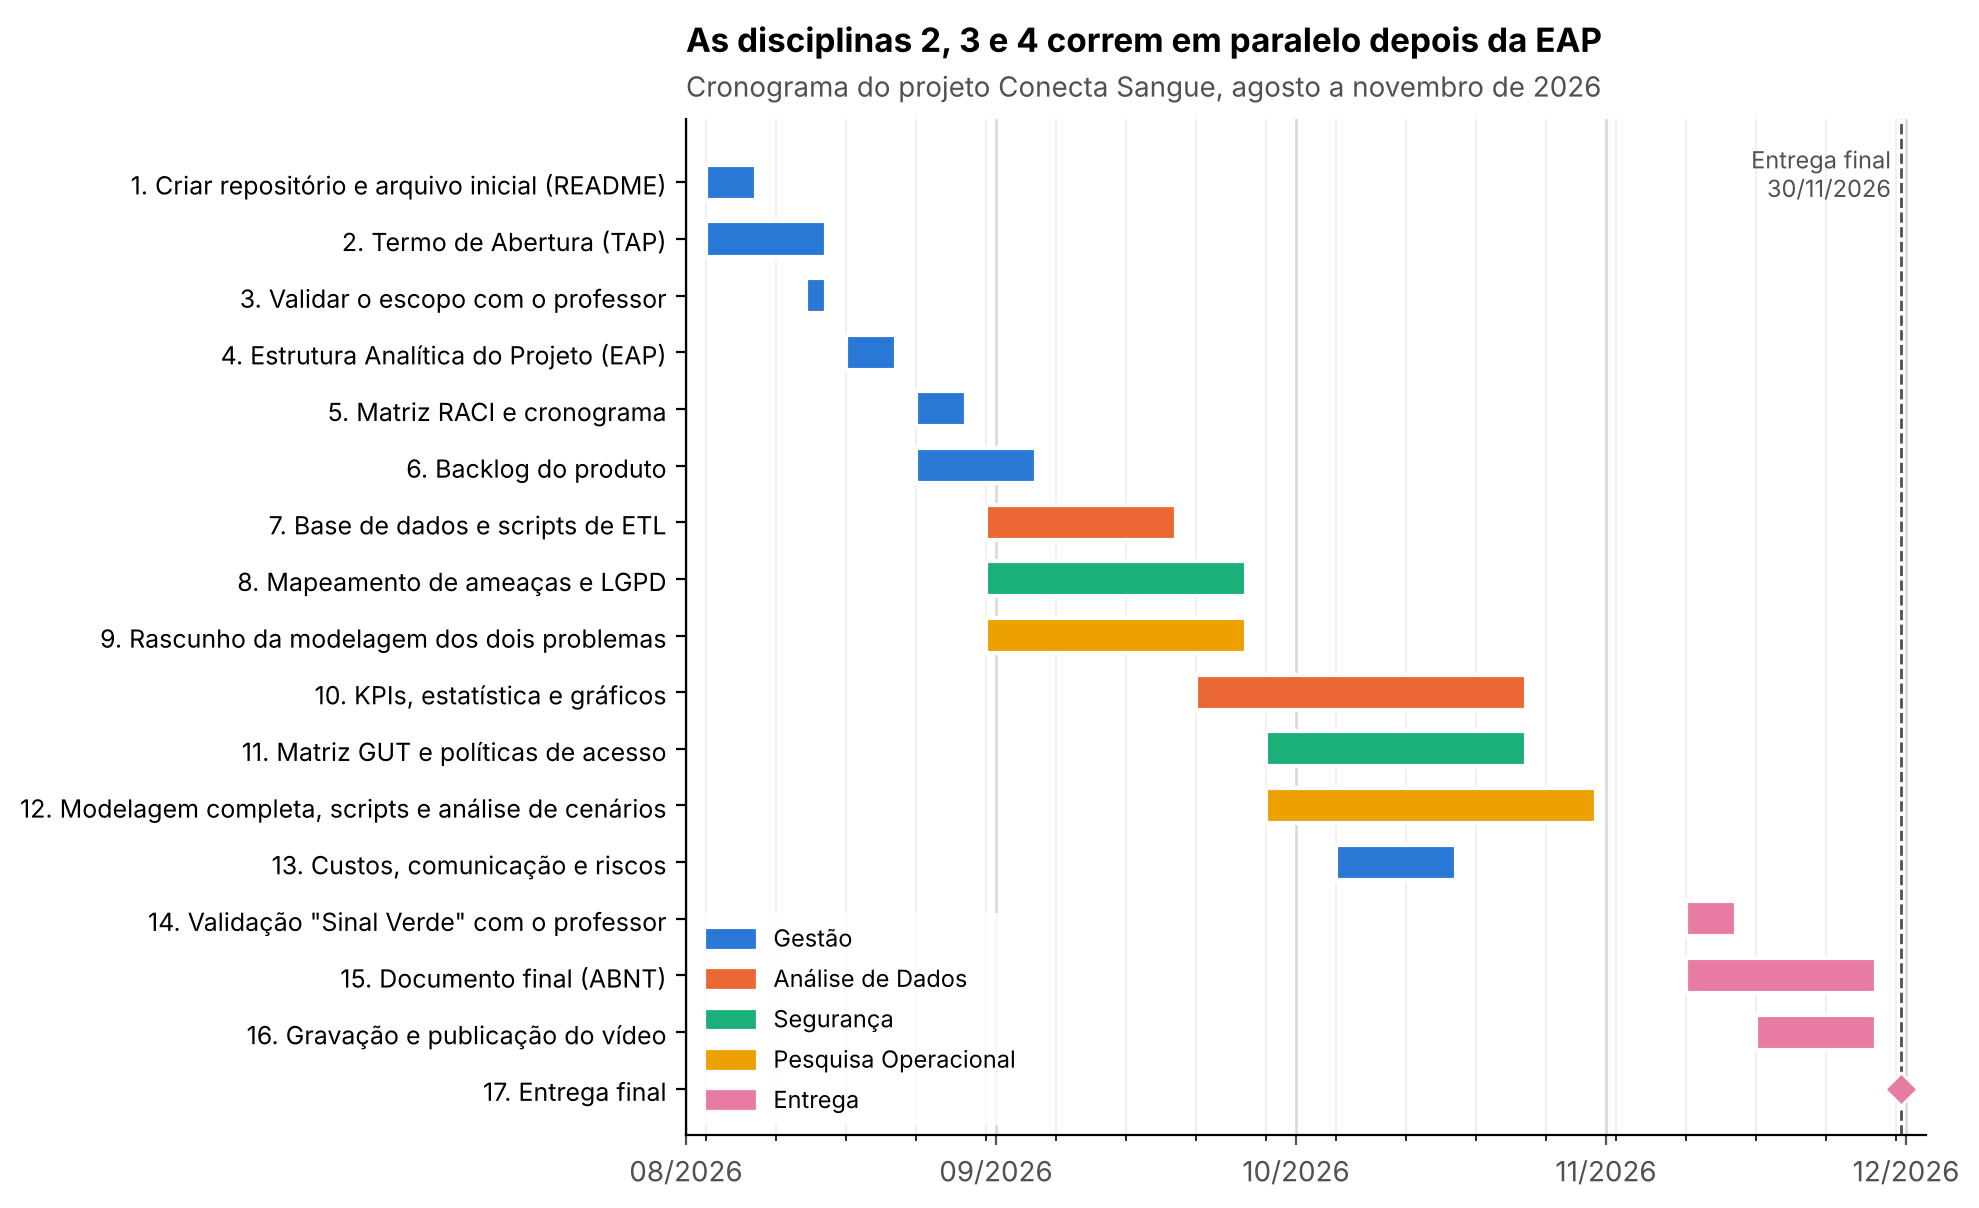
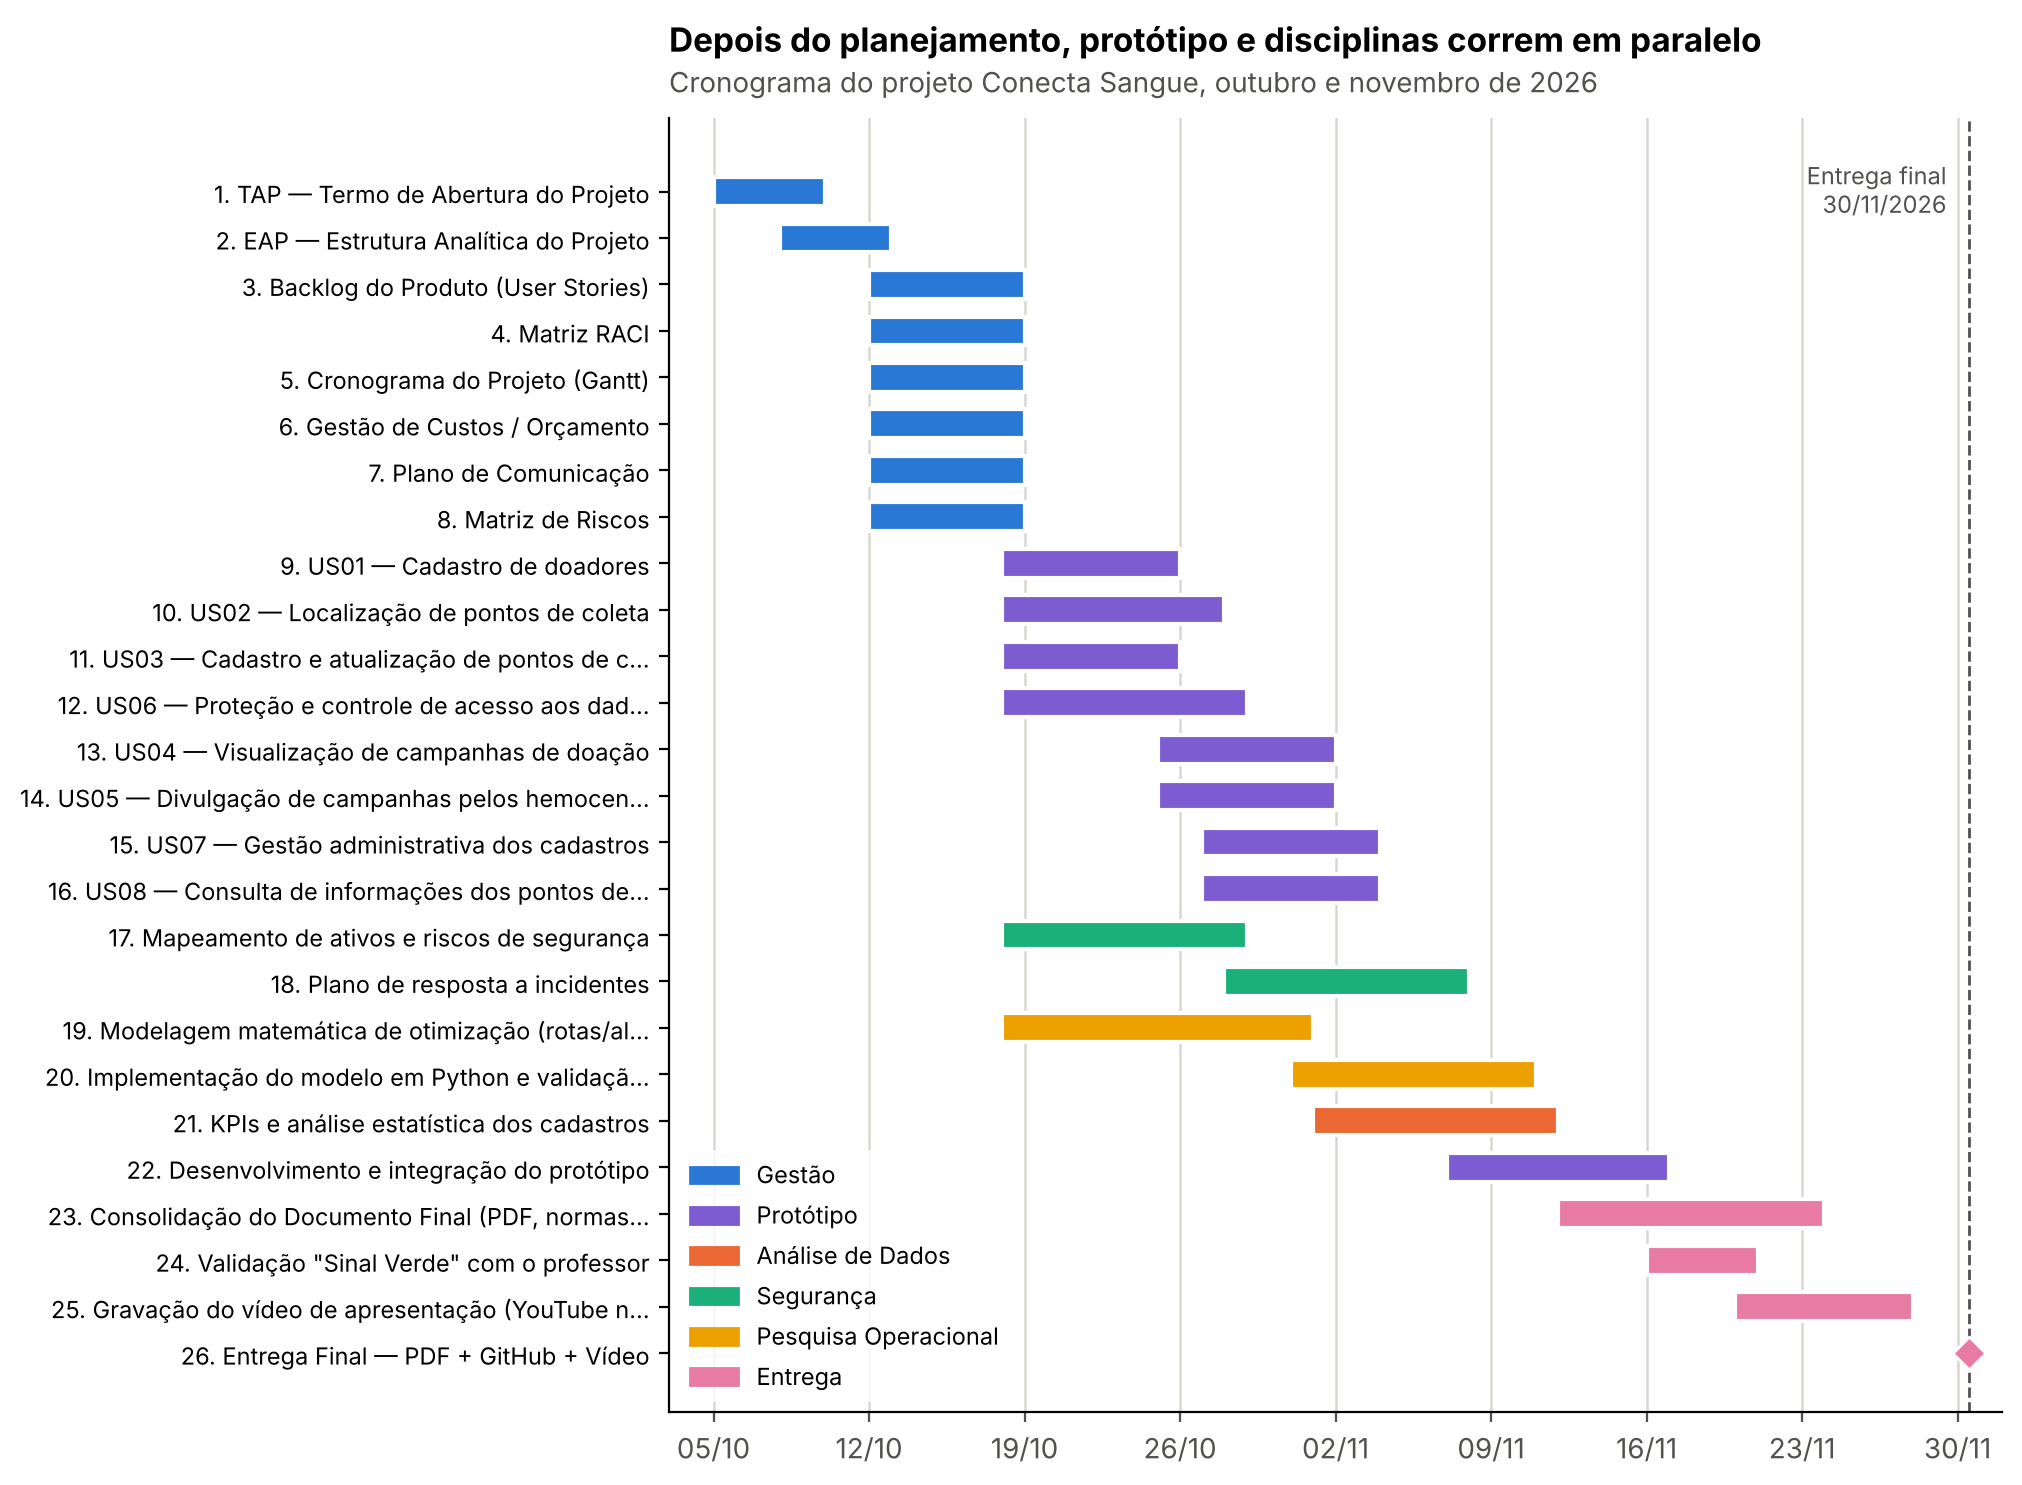
Atualiza a gestão com a EAP, o cronograma e os custos do grupo
- Adiciona a EAP completa (eap.png): seis grandes entregas e 42 pacotes de trabalho.
- Planilha de gestão: nova aba EAP, Matriz RACI pelos pacotes da EAP, cronograma
  do grupo (26 atividades, de 05/10 a 30/11) e custos com as horas da equipe.
- Atualiza o gráfico de Gantt e os READMEs (orçamento de R$ 6.469,43).

Claude-Session: https://claude.ai/code/session_01ELeQMpUAz7tKq2hUvwjXNj

Changed region(s): [[0.0, 0.0, 0.9864, 0.9801]]

diff --git a/01-gestao-de-projetos/README.md b/01-gestao-de-projetos/README.md
@@ -6,15 +6,15 @@ Disciplina 1 do projeto **Conecta Sangue**: Termo de Abertura (TAP), Estrutura A
 
 | Arquivo | Conteúdo |
 |---|---|
-| `gestao_projetos_conectasangue.xlsx` | Abas **Backlog**, **Matriz RACI**, **Cronograma**, **Custos**, **Comunicação** e **Riscos** |
-| `grafico_gantt_cronograma.png` | Gráfico de Gantt do projeto, de agosto a novembro de 2026 |
+| `gestao_projetos_conectasangue.xlsx` | Abas **EAP**, **Backlog**, **Matriz RACI**, **Cronograma**, **Custos**, **Comunicação** e **Riscos** |
+| `grafico_gantt_cronograma.png` | Gráfico de Gantt do projeto, de 05/10 a 30/11/2026 |
 | `modelo_pauta_e_ata.docx` | Modelo em branco de pauta e de ata de reunião |
-| `eap.png` | Estrutura Analítica do Projeto (a equipe adiciona o arquivo) |
+| `eap.png` | Estrutura Analítica do Projeto (EAP), com 6 grandes entregas e 42 pacotes de trabalho |
 
 ## Termo de Abertura (resumo)
 
 - **Projeto:** Conecta Sangue, tecnologia aplicada à doação de sangue.
-- **Período:** agosto a novembro de 2026; entrega final em 30/11/2026.
+- **Período:** outubro a novembro de 2026; entrega final em 30/11/2026.
 - **Objetivo geral:** desenvolver um protótipo do Conecta Sangue que facilite a localização dos doadores e pontos de coleta e proteja os dados cadastrados.
 - **Metas SMART:** (1) permitir que 100% dos usuários e pontos de coleta cadastrados sejam localizados no sistema até a entrega final; (2) garantir mecanismos de controle de acesso em 100% das funcionalidades que armazenam dados dos doadores.
 
@@ -43,14 +43,17 @@ O TAP completo, com a identificação da equipe, está somente no Documento Fina
 | I1 | Gestão de Projeto | 1, 2 e 3 |
 | I2 | Gestão de Projeto (líder do projeto) | 1, 2 e 3 |
 | I3 | Segurança da Informação | 1, 2 e 3 |
-| I4, I5 e I6 | Pesquisa Operacional | 4 |
+| I4, I5 e I6 | Pesquisa Operacional | 1 e 4 |
+
+Na Disciplina 1, cada integrante ficou responsável por um item: TAP (I1), EAP (I2), comunicação e riscos (I3), backlog (I4), Matriz RACI (I5), cronograma e custos (I6).
 
 ## Destaques
 
-- **Backlog:** 17 user stories no formato "Como [usuário], quero [funcionalidade] para [benefício]", distribuídas em 4 sprints de duas semanas e ligadas às 16 funcionalidades do protótipo.
-- **Matriz RACI:** cada pacote da EAP tem um único responsável que aprova (A).
-- **Cronograma:** 17 atividades com dependências. As Disciplinas 2, 3 e 4 correm em paralelo depois da EAP, e a validação "Sinal Verde" com o professor acontece em novembro.
-- **Custos:** infraestrutura em nuvem na região de São Paulo, serviços e horas da equipe (valor fictício de R$ 80,00 por hora). Subtotal de R$ 20.233,64, contingência de 10% (R$ 2.023,36) e **total de R$ 22.257,00**. Na aba **Custos**, altere a quantidade ou o valor unitário e os totais são recalculados.
+- **EAP:** seis grandes entregas (as quatro disciplinas, o protótipo e a entrega final) e 42 pacotes de trabalho.
+- **Backlog:** 8 user stories (US01 a US08) no formato "Como [usuário], quero [funcionalidade] para [benefício]", distribuídas em 2 sprints e ligadas às 16 funcionalidades do protótipo.
+- **Matriz RACI:** os 42 pacotes de trabalho da EAP, cada um com um único responsável que aprova (A).
+- **Cronograma:** 26 atividades, de 05/10 a 30/11/2026, com responsável, pacotes da EAP e dependências. Depois da EAP, o protótipo e as disciplinas correm em paralelo; a validação "Sinal Verde" com o professor acontece em novembro.
+- **Custos:** 140 horas da equipe (valores fictícios de R$ 35,00 e R$ 40,00 por hora) e infraestrutura em nuvem na região de São Paulo. Subtotal de R$ 5.881,30, contingência de 10% (R$ 588,13) e **total de R$ 6.469,43**. Na aba **Custos**, altere a quantidade ou o valor unitário e os totais são recalculados.
 - **Comunicação:** reunião semanal às segundas-feiras, com pauta enviada até domingo e ata com aceite de todos.
 - **Riscos:** 9 riscos, com probabilidade, impacto, mitigação e responsável.
 

diff --git a/README.md b/README.md
@@ -57,7 +57,7 @@ Cada pasta tem o próprio README, com o conteúdo e o passo a passo de execuçã
 | KPI 2 – Pontos de coleta localizados | 80,6% (29 de 36) | 100% |
 | KPI 3 – Funcionalidades com controle de acesso | 54,5% hoje; 100% com as 26 políticas da Disciplina 3 | 100% |
 | Ameaça mais grave (Matriz GUT) | Quebra de autorização por objeto (IDOR/BOLA), nota 125 | — |
-| Orçamento estimado do projeto | R$ 22.257,00, com 10% de contingência | — |
+| Orçamento estimado do projeto | R$ 6.469,43, com 10% de contingência | — |
 
 ## Links
 
